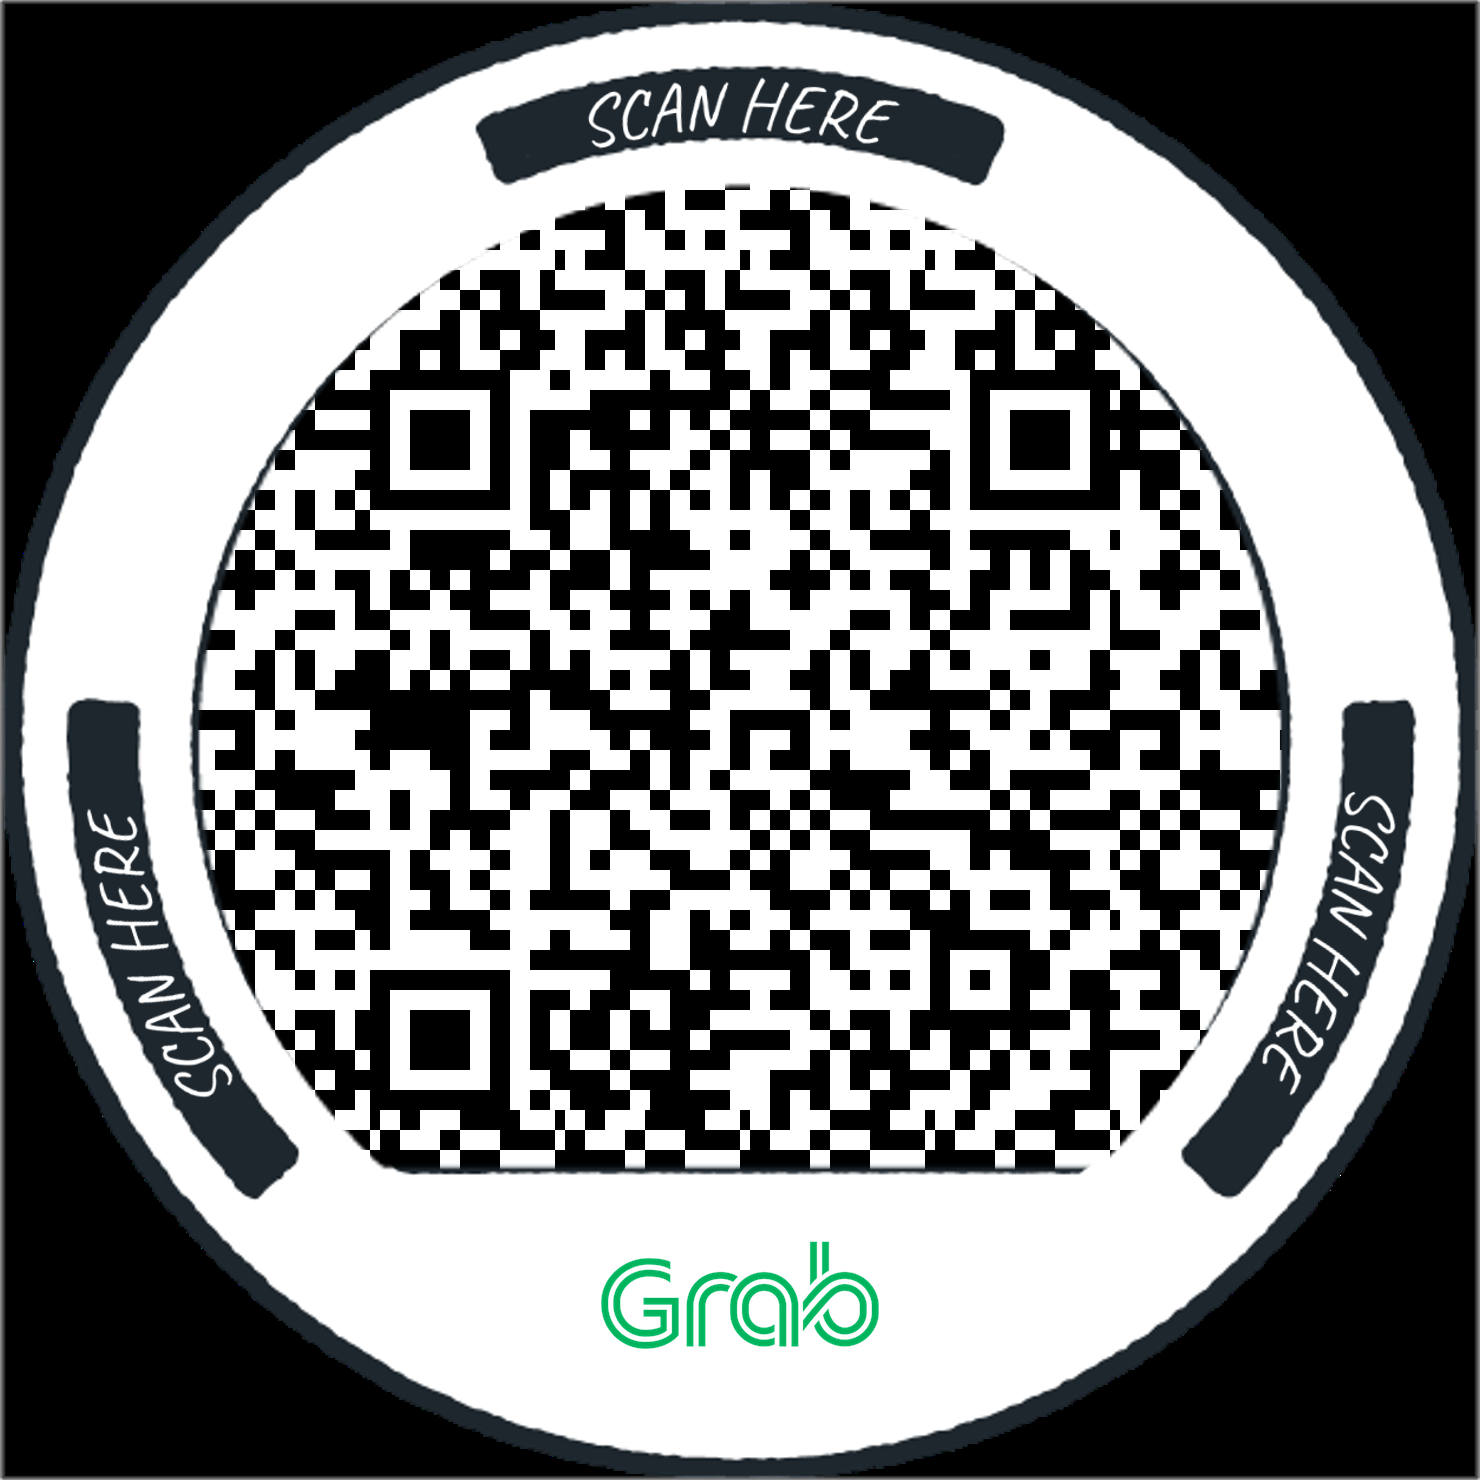
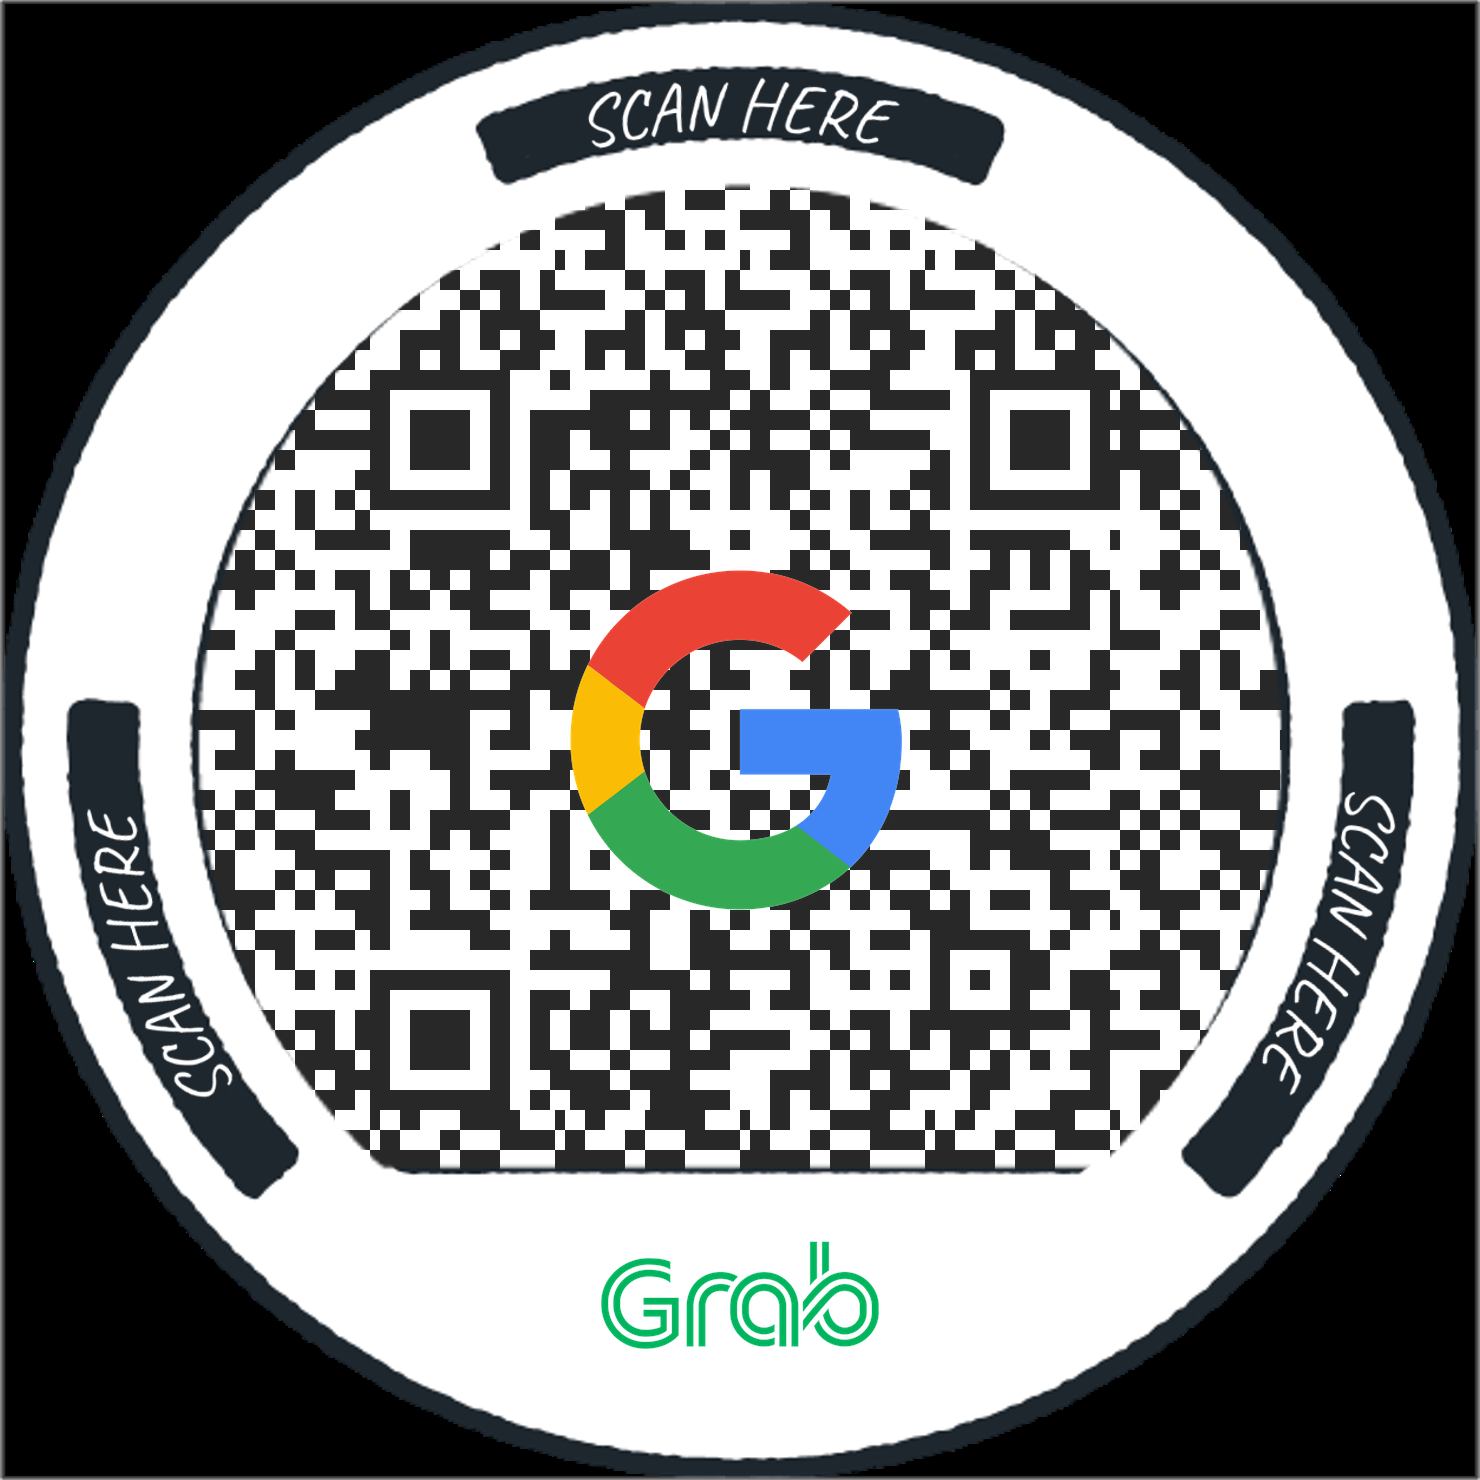
client fixes

Changed region(s): [[0.1243, 0.1243, 0.8703, 0.8081]]

diff --git a/qr.py b/qr.py
@@ -3,7 +3,7 @@ from PIL import Image
 from qrcode.image import styledpil
 from qrcode.image.styledpil import StyledPilImage
 from qrcode.image.styles.moduledrawers import RoundedModuleDrawer
-from qrcode.image.styles.colormasks import RadialGradiantColorMask
+from qrcode.image.styles.colormasks import RadialGradiantColorMask, SolidFillColorMask, SquareGradiantColorMask
 from wand import font
 from wand.image import Image as WandImage
 from wand.font import Font
@@ -11,7 +11,7 @@ import json
 
 config = json.load(open('config.json'))
 font_fix = int(config["font_fix"])
-square_color = config["square_color"]
+square_color = tuple(config["square_color"])
 data = config["data"]
 font = config["font"]
 print(config)
@@ -41,7 +41,7 @@ sx, sy = img_3.size
 copy_region = img_3.crop( ( int(sx/4)*2, 0, int(sy/4)*3, sy ) )
 csx, csy = copy_region.size
 
-# img_3 = qr.make_image(image_factory=StyledPilImage, color_mask=RadialGradiantColorMask((255,0,0)), module_drawer=RoundedModuleDrawer())
+# img_3 = qr.make_image(embedded_image=Image.open("logo_middle.png"), color_mask=SquareGradiantColorMask(square_color), image_factory=StyledPilImage, module_drawer=RoundedModuleDrawer())
 
 new_im = Image.new('RGB', (sx*3, sy*3), (255,255,255))
 for ix in range(12):
@@ -73,6 +73,11 @@ logo = Image.open('logo.png')
 size = (  int(new_im.size[0]/4), int(new_im.size[1]/4) )
 logo.thumbnail(size, Image.ANTIALIAS)
 new_im.paste( logo, (int(new_im.size[0]/2) - int(logo.size[0]/2), int(new_im.size[1]/8)*7 - int(logo.size[1]/2) ), logo )
+
+logo = Image.open('logo_middle.png')
+size = (  int(new_im.size[0]/4), int(new_im.size[1]/4) )
+logo.thumbnail(size, Image.ANTIALIAS)
+new_im.paste( logo, (int(new_im.size[0]/2) - int(logo.size[0]/2), int(new_im.size[1]/2) - int(logo.size[1]/2) ), logo )
 
 
 new_im.save("demo.png")
